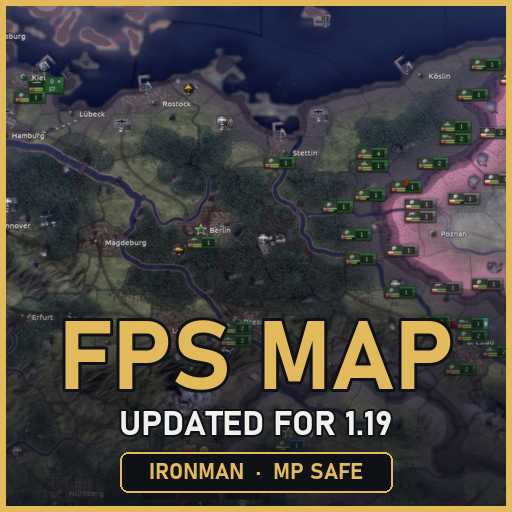
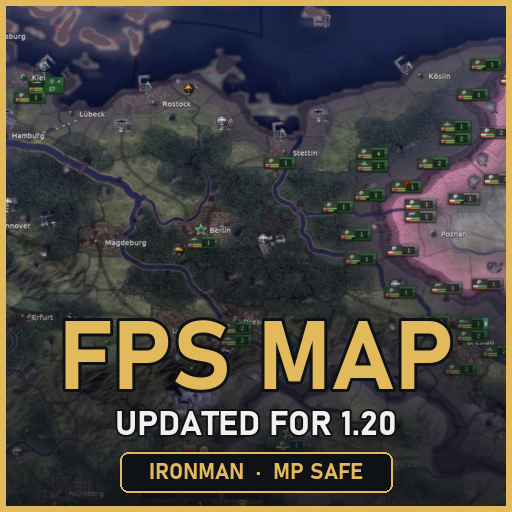
FPS Map - Updated for 1.20: renamed for Hearts of Iron IV 1.20, texts and thumbnail updated

Changed region(s): [[0.2188, 0.7812, 0.7812, 0.875]]

diff --git a/tools/make_images.py b/tools/make_images.py
@@ -85,7 +85,7 @@ pair_crop('close.png', (380, 80, 1380, 620), 'Baltic coast up close', '03_coast_
 pair_crop('production.png', (0, 0, 560, 1080), 'Coloured, readable UI', '04_ui_production.png')
 
 hero = load('mod', 'close.png')
-banner(hero, 'FPS Map — Updated for 1.19', 'Ironman & Multiplayer safe  ·  All DLC  ·  Purely visual')
+banner(hero, 'FPS Map — Updated for 1.20', 'Ironman & Multiplayer safe  ·  All DLC  ·  Purely visual')
 hero.save(os.path.join(OUT, '05_mod_close.png'), optimize=True)
 wide = load('mod', 'wide.png')
 banner(wide, 'Built for long wars', 'Flat, unlit plan arrows and solid borders at every zoom level')
@@ -104,7 +104,7 @@ od.rectangle((0, 0, 511, 511), outline=(*GOLD, 255), width=6)
 th = Image.alpha_composite(th, ov)
 d = ImageDraw.Draw(th)
 d.text((256, 360), 'FPS MAP', font=font(96), fill=GOLD, anchor='mm', stroke_width=3, stroke_fill=INK)
-d.text((256, 425), 'UPDATED FOR 1.19', font=font(34), fill=WHITE, anchor='mm', stroke_width=2, stroke_fill=INK)
+d.text((256, 425), 'UPDATED FOR 1.20', font=font(34), fill=WHITE, anchor='mm', stroke_width=2, stroke_fill=INK)
 d.rounded_rectangle((120, 452, 392, 492), 8, fill=(*INK, 230), outline=(*GOLD, 255), width=2)
 d.text((256, 472), 'IRONMAN  ·  MP SAFE', font=font(22), fill=GOLD, anchor='mm')
 th = th.convert('RGB')

diff --git a/tools/build.py b/tools/build.py
@@ -28,7 +28,7 @@ OUT_VI = OUT.rstrip('/\\') + '_vanillaicons'
 # Descriptor names ARE the Workshop titles: the launcher overwrites the title
 # with this name on every upload, and add-ons depend on it by name.
 # ASCII only: some tools read descriptors as ANSI and would mangle an en dash.
-NAME = 'FPS Map - Updated for 1.19 (Ironman & MP Safe)'
+NAME = 'FPS Map - Updated for 1.20 (Ironman & MP Safe)'
 NAME_CB = 'FPS Map - Colour-blind Add-on'
 NAME_WATER = 'FPS Map - Calm Water Add-on'
 NAME_VI = 'FPS Map - Vanilla Icons (Ironman & MP Safe)'

diff --git a/README.md b/README.md
@@ -1,11 +1,11 @@
-# FPS Map — Updated for Hearts of Iron IV 1.19
+# FPS Map — Updated for Hearts of Iron IV 1.20
 
 A maintained continuation of [FPS Map by Mlecz](https://steamcommunity.com/sharedfiles/filedetails/?id=2404689961),
-rebuilt for Hearts of Iron IV 1.19.x and every DLC. Ironman and multiplayer safe.
+rebuilt for Hearts of Iron IV 1.20.x and every DLC. Ironman and multiplayer safe.
 
 | Steam Workshop | |
 |---|---|
-| [FPS Map - Updated for 1.19 (Ironman & MP Safe)](https://steamcommunity.com/sharedfiles/filedetails/?id=3828926440) | main mod |
+| [FPS Map - Updated for 1.20 (Ironman & MP Safe)](https://steamcommunity.com/sharedfiles/filedetails/?id=3828926440) | main mod |
 | [FPS Map - Colour-blind Add-on](https://steamcommunity.com/sharedfiles/filedetails/?id=3828959483) | optional |
 | [FPS Map - Calm Water Add-on](https://steamcommunity.com/sharedfiles/filedetails/?id=3829377291) | optional, not with Millennium Dawn |
 
@@ -61,6 +61,6 @@ files used for patch diffs) is not published; the first `patch_check.py` run rec
 ## Credits
 
 - Original mod, art and visual design: **Mlecz**. All visual design is his work.
-- 1.19 update and maintenance: [keremtrgl](https://github.com/keremtrgl).
+- 1.20 update and maintenance: [keremtrgl](https://github.com/keremtrgl).
 
 Hearts of Iron IV is a trademark of Paradox Interactive. This project is not affiliated with Paradox.

diff --git a/CHANGELOG.md b/CHANGELOG.md
@@ -1,8 +1,16 @@
 # FPS Map (Updated)
 
-Rebuilt against Hearts of Iron IV 1.19.4, compatible with every DLC up to Thunder at Our Gates.
+Rebuilt against Hearts of Iron IV 1.20.0, compatible with every DLC up to Thunder at Our Gates.
 After a game patch: `python -I tools/patch_check.py --install`
 Compatibility report: `python -I tools/conflicts.py`
+
+## 1.20.0.0-6 — Hearts of Iron IV 1.20
+- Checked against 1.20.0.0: none of the 166 vanilla files the build reads changed (shaders,
+  arrow and symbol types, UI sprites), and none of the 13 changed `interface/*.gfx|gui` files
+  reference a texture FPS Map ships. Tested in game: no shader or texture errors.
+- Renamed to "FPS Map - Updated for 1.20 (Ironman & MP Safe)"; add-ons depend on the new name.
+  `supported_version` is now `1.20.*`, so the launcher no longer flags the mods as outdated.
+- `health.py` no longer warns about system.log's "Active Mod:" playset lines.
 
 ## 1.19.4.1-6 — calmer water with high-quality shaders
 All three edits only touch code paths that run with "High quality shaders" on; the low-quality
